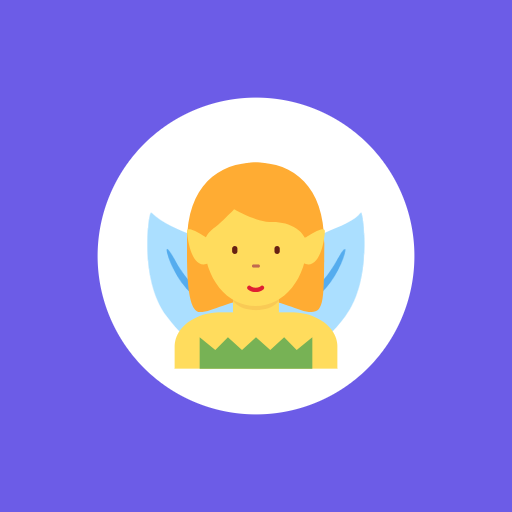
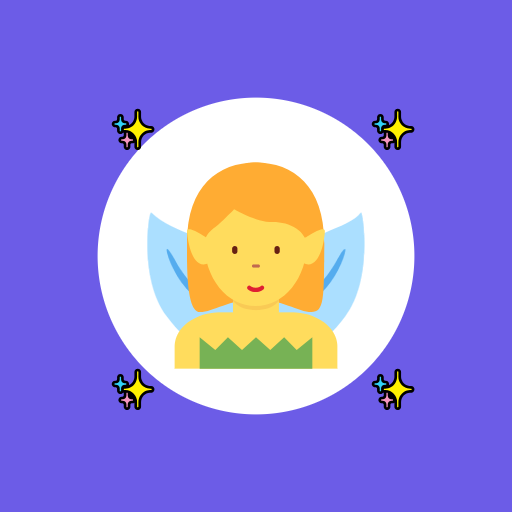
feat: 앱 아이콘에 반짝이(✨) 4개 추가로 밋밋함 개선
캐릭터만 있으니 밋밋하다는 피드백으로 배지(원) 바깥 대각선 4방향에 작은
반짝이 추가(maskable 안전영역 안쪽 반지름에 배치, 잘림 없음).

sw.js 캐시 버전 v78 -> v79.

diff --git a/scripts/make-icons.js b/scripts/make-icons.js
@@ -16,9 +16,22 @@ function buildHtml(size) {
   const badgeSize = Math.round(size * 0.62);
   const imgSize = Math.round(size * 0.53);
   const imgPath = path.join(__dirname, '..', 'assets', 'emoji', 'boss-fairygirl-icon.svg').replace(/\\/g, '/');
+  // 2026-08-11: "캐릭터만 있으니 밋밋하다" -> 반짝이(✨) 4개로 포인트 추가(처음 2개 요청 후 "4개
+  // 정도 추가해" 추가 요청). 배지(원, 반지름 0.31*size) 바로 바깥, maskable 안전영역(반지름
+  // 0.4*size) 안쪽인 반지름 0.36*size 위치에 90도씩 4개(정사각형 대각선 방향).
+  const sparkleRadius = size * 0.36;
+  const sparkleSize = Math.round(size * 0.075);
+  const angles = [45, 135, 225, 315];
+  const sparkles = angles.map((deg, i) => {
+    const rad = (deg * Math.PI) / 180;
+    const dx = Math.round(sparkleRadius * Math.cos(rad));
+    const dy = Math.round(sparkleRadius * Math.sin(rad));
+    return `<span class="sparkle" style="top: calc(50% - ${sparkleSize / 2}px + ${dy}px); left: calc(50% - ${sparkleSize / 2}px + ${dx}px);">✨</span>`;
+  }).join('\n      ');
   return `<!DOCTYPE html><html><head><style>
     html, body { margin:0; padding:0; }
     #icon {
+      position: relative;
       width: ${size}px; height: ${size}px;
       background: #6C5CE7; /* 모서리까지 꽉 채움 — maskable 배경 규칙 */
       display: flex; align-items: center; justify-content: center;
@@ -30,8 +43,16 @@ function buildHtml(size) {
       display: flex; align-items: center; justify-content: center;
     }
     #badge img { width: ${imgSize}px; height: ${imgSize}px; object-fit: contain; }
+    .sparkle {
+      position: absolute;
+      font-size: ${sparkleSize}px;
+      line-height: 1;
+    }
   </style></head><body>
-    <div id="icon"><div id="badge"><img src="file:///${imgPath}"></div></div>
+    <div id="icon">
+      ${sparkles}
+      <div id="badge"><img src="file:///${imgPath}"></div>
+    </div>
   </body></html>`;
 }
 

diff --git a/sw.js b/sw.js
@@ -1,4 +1,4 @@
-const CACHE_NAME = 'coloring-app-v78';
+const CACHE_NAME = 'coloring-app-v79';
 // 2026-08-11: cache.addAll()은 원자적이라 목록 중 하나라도 못 받아오면 설치 전체가 실패한다.
 // boss-battle 배경음악(6.8MB, 다른 음악의 10배 이상 큼)이 이 목록에 있으면 네트워크가 조금만
 // 불안정해도 그 파일 하나 때문에 서비스워커 설치 자체가 실패해서 앱 전체가 계속 낡은 캐시에
